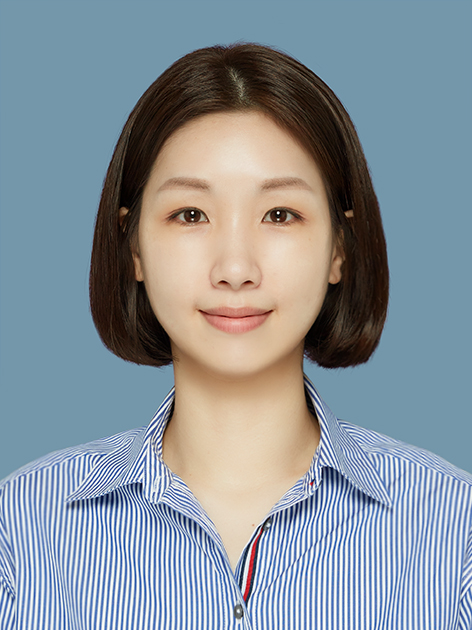
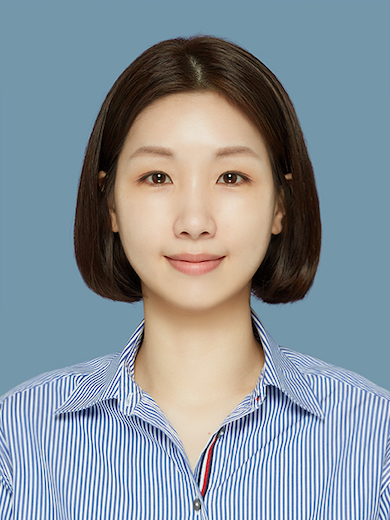
Update

Changed region(s): [[0.0, 0.6154, 1.0, 1.0], [0.0, 0.7692, 0.0308, 0.8]]

diff --git a/post/rpackage1/index.html b/post/rpackage1/index.html
@@ -645,7 +645,7 @@
   <div class="media author-card">
     
       
-      <img class="portrait mr-3" src="/authors/admin/avatar_hu090963ade22e56f1861a65917d9c2100_281501_250x250_fill_q90_lanczos_center.jpg" alt="Avatar">
+      <img class="portrait mr-3" src="/authors/admin/avatar_hu44c1223fa19ed1371928cbbc90f815a9_183026_250x250_fill_q90_lanczos_center.jpg" alt="Avatar">
     
 
     <div class="media-body">

diff --git a/post/rpackage2/index.html b/post/rpackage2/index.html
@@ -645,7 +645,7 @@
   <div class="media author-card">
     
       
-      <img class="portrait mr-3" src="/authors/admin/avatar_hu090963ade22e56f1861a65917d9c2100_281501_250x250_fill_q90_lanczos_center.jpg" alt="Avatar">
+      <img class="portrait mr-3" src="/authors/admin/avatar_hu44c1223fa19ed1371928cbbc90f815a9_183026_250x250_fill_q90_lanczos_center.jpg" alt="Avatar">
     
 
     <div class="media-body">

diff --git a/post/rpackage3/index.html b/post/rpackage3/index.html
@@ -645,7 +645,7 @@
   <div class="media author-card">
     
       
-      <img class="portrait mr-3" src="/authors/admin/avatar_hu090963ade22e56f1861a65917d9c2100_281501_250x250_fill_q90_lanczos_center.jpg" alt="Avatar">
+      <img class="portrait mr-3" src="/authors/admin/avatar_hu44c1223fa19ed1371928cbbc90f815a9_183026_250x250_fill_q90_lanczos_center.jpg" alt="Avatar">
     
 
     <div class="media-body">

diff --git a/resource/rpackage1/index.html b/resource/rpackage1/index.html
@@ -578,7 +578,7 @@
   <div class="media author-card">
     
       
-      <img class="portrait mr-3" src="/authors/admin/avatar_hu090963ade22e56f1861a65917d9c2100_281501_250x250_fill_q90_lanczos_center.jpg" alt="Avatar">
+      <img class="portrait mr-3" src="/authors/admin/avatar_hu44c1223fa19ed1371928cbbc90f815a9_183026_250x250_fill_q90_lanczos_center.jpg" alt="Avatar">
     
 
     <div class="media-body">

diff --git a/resource/rpackage2/index.html b/resource/rpackage2/index.html
@@ -578,7 +578,7 @@
   <div class="media author-card">
     
       
-      <img class="portrait mr-3" src="/authors/admin/avatar_hu090963ade22e56f1861a65917d9c2100_281501_250x250_fill_q90_lanczos_center.jpg" alt="Avatar">
+      <img class="portrait mr-3" src="/authors/admin/avatar_hu44c1223fa19ed1371928cbbc90f815a9_183026_250x250_fill_q90_lanczos_center.jpg" alt="Avatar">
     
 
     <div class="media-body">

diff --git a/resource/rpackage3/index.html b/resource/rpackage3/index.html
@@ -578,7 +578,7 @@
   <div class="media author-card">
     
       
-      <img class="portrait mr-3" src="/authors/admin/avatar_hu090963ade22e56f1861a65917d9c2100_281501_250x250_fill_q90_lanczos_center.jpg" alt="Avatar">
+      <img class="portrait mr-3" src="/authors/admin/avatar_hu44c1223fa19ed1371928cbbc90f815a9_183026_250x250_fill_q90_lanczos_center.jpg" alt="Avatar">
     
 
     <div class="media-body">

diff --git a/talk/hfsa_2020/index.html b/talk/hfsa_2020/index.html
@@ -644,7 +644,7 @@
   <div class="media author-card">
     
       
-      <img class="portrait mr-3" src="/authors/admin/avatar_hu090963ade22e56f1861a65917d9c2100_281501_250x250_fill_q90_lanczos_center.jpg" alt="Avatar">
+      <img class="portrait mr-3" src="/authors/admin/avatar_hu44c1223fa19ed1371928cbbc90f815a9_183026_250x250_fill_q90_lanczos_center.jpg" alt="Avatar">
     
 
     <div class="media-body">

diff --git a/authors/admin/index.html b/authors/admin/index.html
@@ -393,7 +393,7 @@
 
       
       
-      <img class="portrait" src="/authors/admin/avatar_hu090963ade22e56f1861a65917d9c2100_281501_250x250_fill_q90_lanczos_center.jpg" alt="Avatar">
+      <img class="portrait" src="/authors/admin/avatar_hu44c1223fa19ed1371928cbbc90f815a9_183026_250x250_fill_q90_lanczos_center.jpg" alt="Avatar">
       
 
       <div class="portrait-title">

diff --git a/index.html b/index.html
@@ -454,7 +454,7 @@
 
       
       
-      <img class="portrait" src="/authors/admin/avatar_hu090963ade22e56f1861a65917d9c2100_281501_250x250_fill_q90_lanczos_center.jpg" alt="Avatar">
+      <img class="portrait" src="/authors/admin/avatar_hu44c1223fa19ed1371928cbbc90f815a9_183026_250x250_fill_q90_lanczos_center.jpg" alt="Avatar">
       
 
       <div class="portrait-title">
